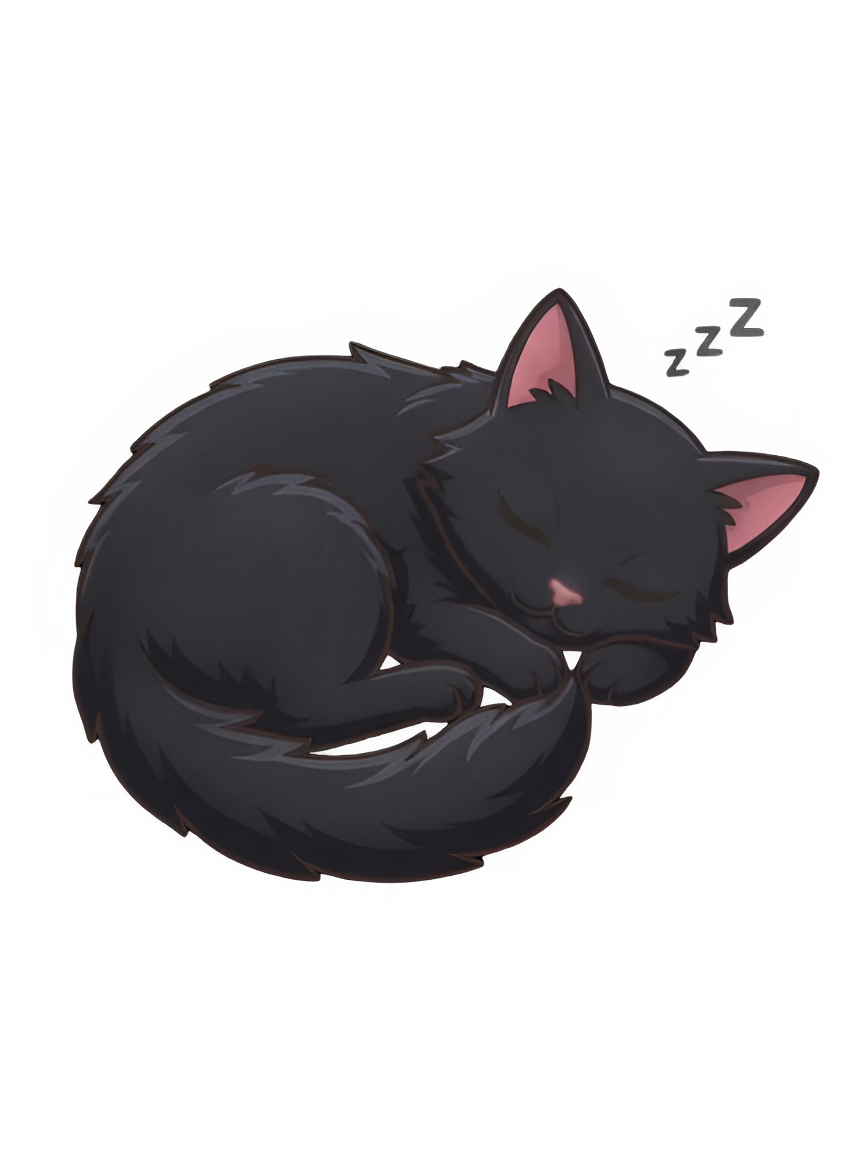
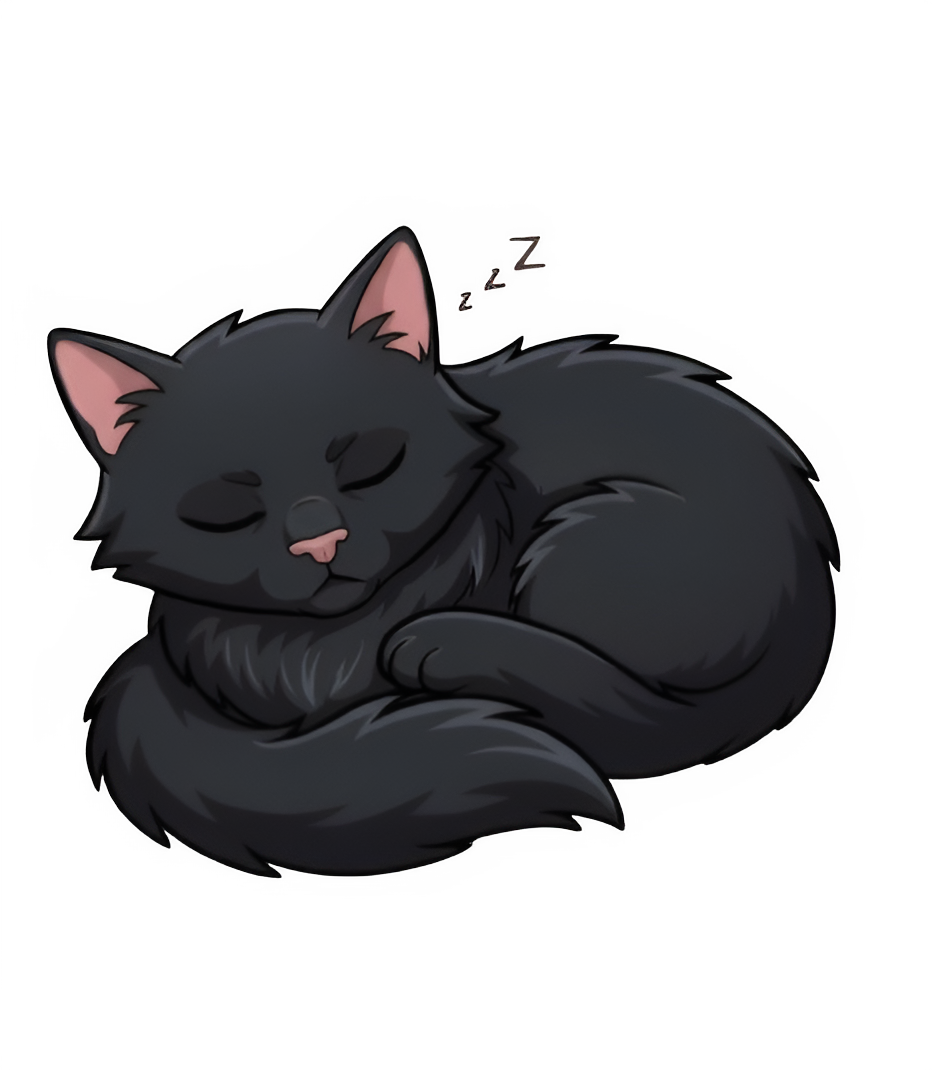
updated asset

diff --git a/api/index.php b/api/index.php
@@ -8,13 +8,13 @@
   <meta property="og:title" content="Nova's House">
   <meta property="og:description" content="Come hang out with Nova, a cozy little cat. Feed her, play, pet her, and chat!">
   <meta property="og:url" content="https://nova-cat.vercel.app/">
-  <meta property="og:image" content="https://nova-cat.vercel.app/Assets/MessageBubble.png?v=2">
+  <meta property="og:image" content="https://nova-cat.vercel.app/Assets/Sleeping1.png?v=2">
   <meta property="og:image:type" content="image/png">
   <meta property="og:image:width" content="864">
   <meta property="og:image:height" content="1156">
   <meta property="og:image:alt" content="Nova the cat standing in her cozy house">
   <meta name="twitter:card" content="summary_large_image">
-  <meta name="twitter:image" content="https://nova-cat.vercel.app/Assets/MessageBubble.png?v=2">
+  <meta name="twitter:image" content="https://nova-cat.vercel.app/Assets/Sleeping1.png?v=2">
   <meta charset="UTF-8">
   <meta name="viewport" content="width=device-width, initial-scale=1.0, viewport-fit=cover, interactive-widget=resizes-visual">
   <title>Nova's House</title>
